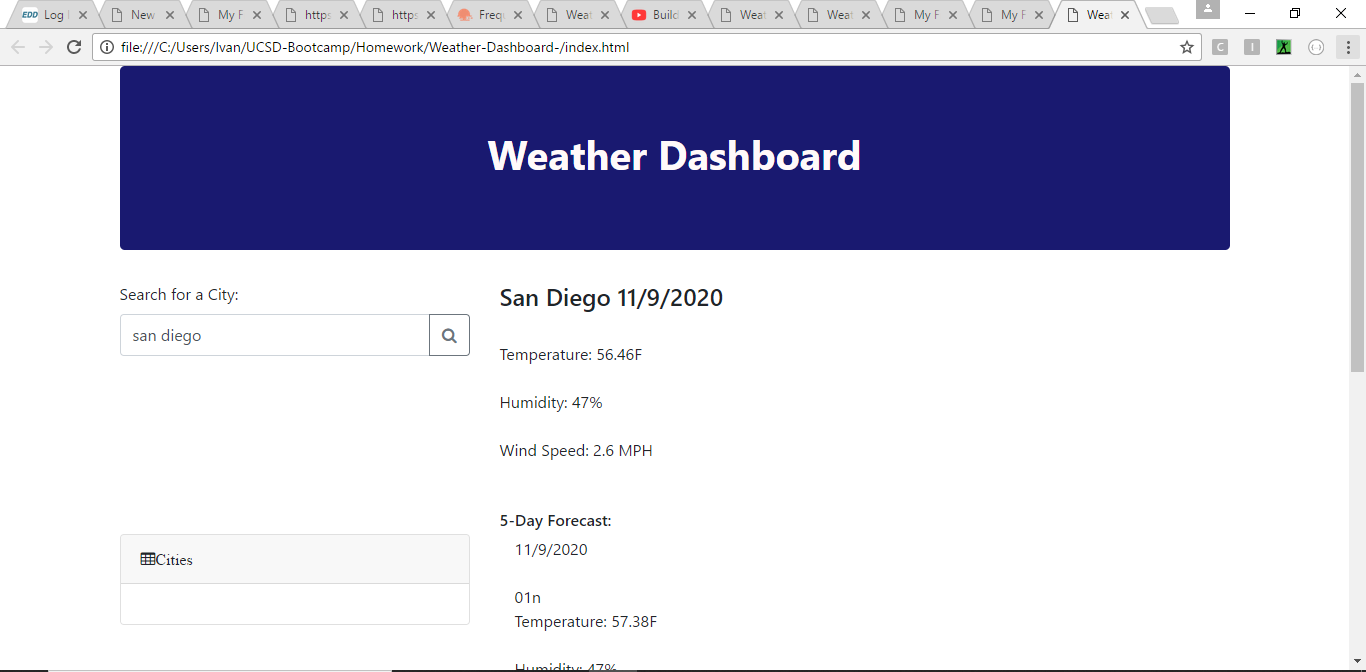
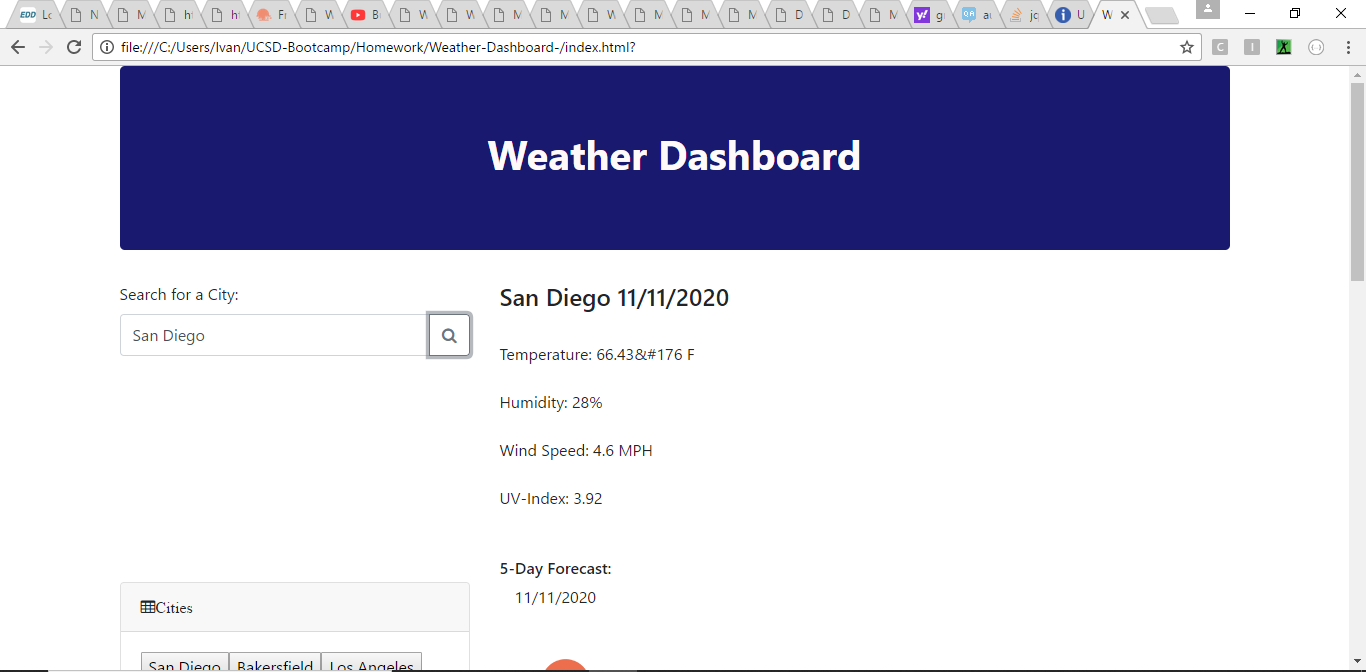
final commit

diff --git a/assets/javascript.js b/assets/javascript.js
@@ -1,18 +1,16 @@
 // Create APIKey and store it in a variable
 var APIKey = "237dc8df00ed324646bdf99ee09d2439";
+var store = JSON.parse(localStorage.getItem("cities")) || [];
 // Activate #search-button using .on("click",)eventListener
 $("#search-Btn").on("click", function () {
   var city = $("#search-input").val().trim();
   console.log(city);
 
-  // var lat = $(".UV-Index").response.coord.lat;
-  // var lon = $(".UV-Index").val().trim();
-  // console.log(lat);
-  // console.log(lon);
+  
 
   weather(city);
 
-  save();
+  save(city);
 });
 
 function weather(city) {
@@ -30,7 +28,7 @@ function weather(city) {
     // callback fiveDayWeather function
     fiveDayWeather(city);
     // callback UV index function
-    // uvIndex(lat, lon);
+    uvIndex(response.coord.lat, response.coord.lon);
     // Transfer content to HTML
     var d = new Date(response.dt * 1000).toLocaleDateString();
     console.log(d);
@@ -42,7 +40,7 @@ function weather(city) {
     var tempF = (response.main.temp - 273.15) * 1.8 + 32;
 
     //   Add temp content to html
-    $(".temp").text("Temperature: " + tempF.toFixed(2) + "F");
+    $(".temp").text("Temperature: " + tempF.toFixed(2) + "&#176 F");
   });
 }
 
@@ -76,8 +74,8 @@ function fiveDayWeather(city) {
     var Icon1 = response.list[0].weather[0].icon;
     // Add content to html for day1 forecast
     $(".card-body-1").text(fc1);
-    $(".icon1").text(Icon1);
-    $(".temp1").text("Temperature: " + forCas1F.toFixed(2) + "F");
+    $(".icon1").attr("src", "http://openweathermap.org/img/wn/" + Icon1 + "@2x.png");
+    $(".temp1").text("Temperature: " + forCas1F.toFixed(2) + "&#176 F");
     $(".hum1").text("Humidity: " + response.list[0].main.humidity + "%");
     // $(".card1").html("<div>" + forCas1F + "</div>");
     // Create vars for day2 forecast
@@ -86,8 +84,8 @@ function fiveDayWeather(city) {
     var fc2 = new Date(response.list[8].dt * 1000).toLocaleDateString();
     // Add content to html for day2 forecast
     $(".card-body-2").text(fc2);
-    $(".icon2").text(Icon2);
-    $(".temp2").text("Temperature: " + forCas1F.toFixed(2) + "F");
+    $(".icon2").attr("src", "http://openweathermap.org/img/wn/" + Icon2 + "@2x.png");
+    $(".temp2").text("Temperature: " + forCas1F.toFixed(2) + "&#176 F");
     $(".hum2").text("Humidity: " + response.list[8].main.humidity + "%");
     // $(".card2").html("<div>" + forCas2F + "</div>");
     // Create vars for day3 forecast
@@ -96,8 +94,8 @@ function fiveDayWeather(city) {
     var Icon3 = response.list[16].weather[0].icon;
     // Add content to html for day3 forecast
     $(".card-body-3").text(fc3);
-    $(".icon3").text(Icon3);
-    $(".temp3").text("Temperature: " + forCas1F.toFixed(2) + "F");
+    $(".icon3").attr("src", "http://openweathermap.org/img/wn/" + Icon3 + "@2x.png");
+    $(".temp3").text("Temperature: " + forCas1F.toFixed(2) + "&#176 F");
     $(".hum3").text("Humidity: " + response.list[16].main.humidity + "%");
     // Create var for day4 forecast
     var fc4 = new Date(response.list[24].dt * 1000).toLocaleDateString();
@@ -105,8 +103,8 @@ function fiveDayWeather(city) {
     var Icon4 = response.list[24].weather[0].icon;
     // Add content to html for day4 forecast
     $(".card-body-4").text(fc4);
-    $(".icon4").text(Icon4);
-    $(".temp4").text("Temperature: " + forCas1F.toFixed(2) + "F");
+    $(".icon4").attr("src", "http://openweathermap.org/img/wn/" + Icon4 + "@2x.png");
+    $(".temp4").text("Temperature: " + forCas1F.toFixed(2) + "&#176 F");
     $(".hum4").text("Humidity: " + response.list[24].main.humidity + "%");
     // Create var for day5 forecast
     var fc5 = new Date(response.list[32].dt * 1000).toLocaleDateString();
@@ -114,31 +112,40 @@ function fiveDayWeather(city) {
     var Icon5 = response.list[32].weather[0].icon;
     // Add content to html for day5 forecast
     $(".card-body-5").text(fc5);
-    $(".icon5").text(Icon5);
-    $(".temp5").text("Temperature: " + forCas1F.toFixed(2) + "F");
+    $(".icon5").attr("src", "http://openweathermap.org/img/wn/" + Icon5 + "@2x.png");
+    $(".temp5").text("Temperature: " + forCas1F.toFixed(2) + "&#176 F");
     $(".hum5").text("Humidity: " + response.list[32].main.humidity + "%");
   });
-
-  // function uvIndex(lat, lon){
-  //     var UVIndexURL = "https://api.openweathermap.org/data/2.5/uvi?lat=&lon=" + lat&lon + "&appid=" + APIKey;
-  //     console.log(UVIndexURL);
-  // }
-  // $.ajax({
-  //     url: UVIndexURL,
-  //     method: "GET"
-
-  // }).then(function(response){
-  //     console.log(response);
-  // })
-
-//   function save() {
-//     var saveCity = $(this).parent().data(city);
-//     var text = $(this).siblings("#city-section").val();
-
-//     localStorage.setItem(saveCity, text);
-//   }
-
-//   $("#city-section[data-store='cities'] text").val(
-//     localStorage.getItem("cities")
-//   );
 }
+function uvIndex(lat, lon) {
+  var UVIndexURL =
+    "https://api.openweathermap.org/data/2.5/uvi?lat=" +
+    lat +
+    "&lon=" +
+    lon +
+    "&appid=" +
+    APIKey;
+  console.log(UVIndexURL);
+
+  $.ajax({
+    url: UVIndexURL,
+    method: "GET",
+  }).then(function (response) {
+    console.log(response);
+    $(".UV-Index").text("UV-Index: " + response.value);
+  });
+}
+  function save(city) {
+    store.push(city);
+
+    localStorage.setItem("cities", JSON.stringify(store));
+  }
+
+  for(var i = 0; i < store.length; i++) {
+    var Btn = $("<button>").text(store[i]);
+    $("#city-section").append(Btn);
+  }
+
+  // $("#city-section").on("click", "button", function () {
+
+  // }

diff --git a/index.html b/index.html
@@ -66,12 +66,13 @@
                 <!-- Retrieved data will be dumped here -->
                 <div class="city"></div>
                 <br>
-                <div class="temp"></div>
+                <div class="temp"></div>  
                 <br>
                 <div class="humidity"></div>
                 <br>
                 <div class="wind"></div>
-                <!-- <div class="UV-Index"></div> -->
+                <br>
+                <div class="UV-Index"></div>
             </div>
 
 
@@ -108,7 +109,7 @@
                     <div class="card1" style="width: 10rem;">
                         <div class="card-body-1"></div>
                         <br>
-                        <div class="icon1"></div>
+                        <img class="icon1"></img>
                         <div class="temp1"></div>
                         <br>
                         <div class="hum1"></div>
@@ -118,7 +119,7 @@
                 <div class="card2" style="width: 10rem;">
                     <div class="card-body-2"></div>
                     <br>
-                    <div class="icon2"></div>
+                    <img class="icon2"></img>
                     <div class="temp2"></div>
                     <br>
                     <div class="hum2"></div>
@@ -127,7 +128,7 @@
                 <div class="card3" style="width: 10rem;">
                     <div class="card-body-3"></div>
                     <br>
-                    <div class="icon3"></div>
+                    <img class="icon3"></img>
                     <div class="temp3"></div>
                     <br>
                     <div class="hum3"></div>
@@ -136,7 +137,7 @@
                 <div class="card4" style="width: 10rem;">
                     <div class="card-body-4"></div>
                     <br>
-                    <div class="icon4"></div>
+                    <img class="icon4"></img>
                     <div class="temp4"></div>
                     <br>
                     <div class="hum4"></div>
@@ -144,7 +145,7 @@
                 <div class="card5" style="width: 10rem;">
                     <div class="card-body-5"></div>
                     <br>
-                    <div class="icon5"></div>
+                    <img class="icon5"></img>
                     <div class="temp5"></div>
                     <br>
                     <div class="hum5"></div>

diff --git a/README.md b/README.md
@@ -34,7 +34,7 @@ Day 5 Humidity
 
 ### Application Preview
 
- ![Weather-Dashboard](./weather-db.png)
+ ![Weather-Dashboard](./assets./weather-db.png)
 ![Weather-Dashboard](./weather-db1.png)
 
 ### Application Link
